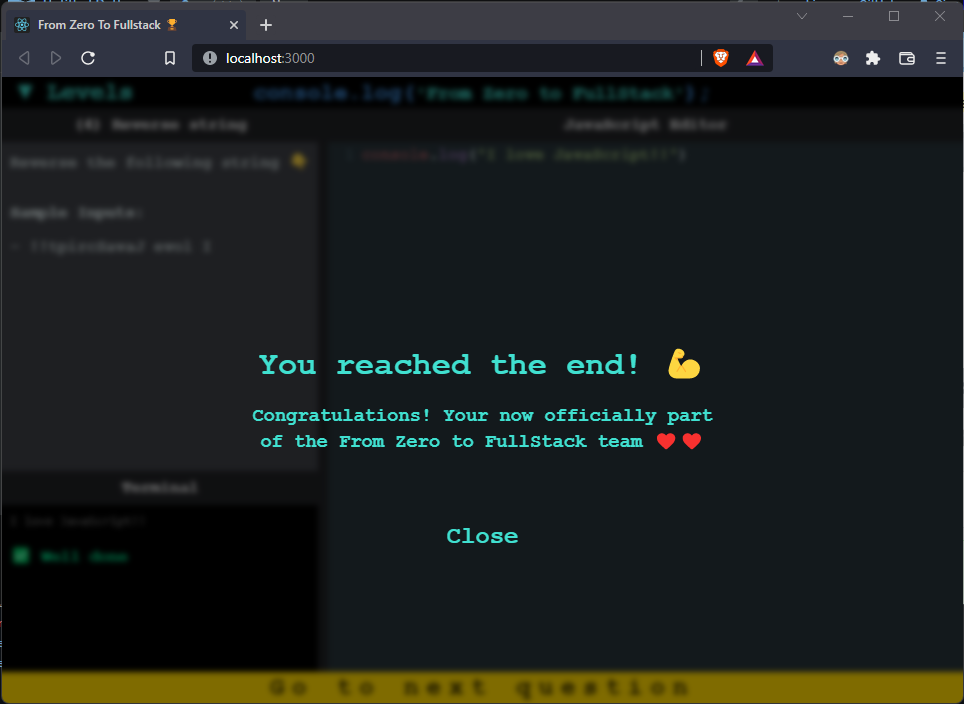
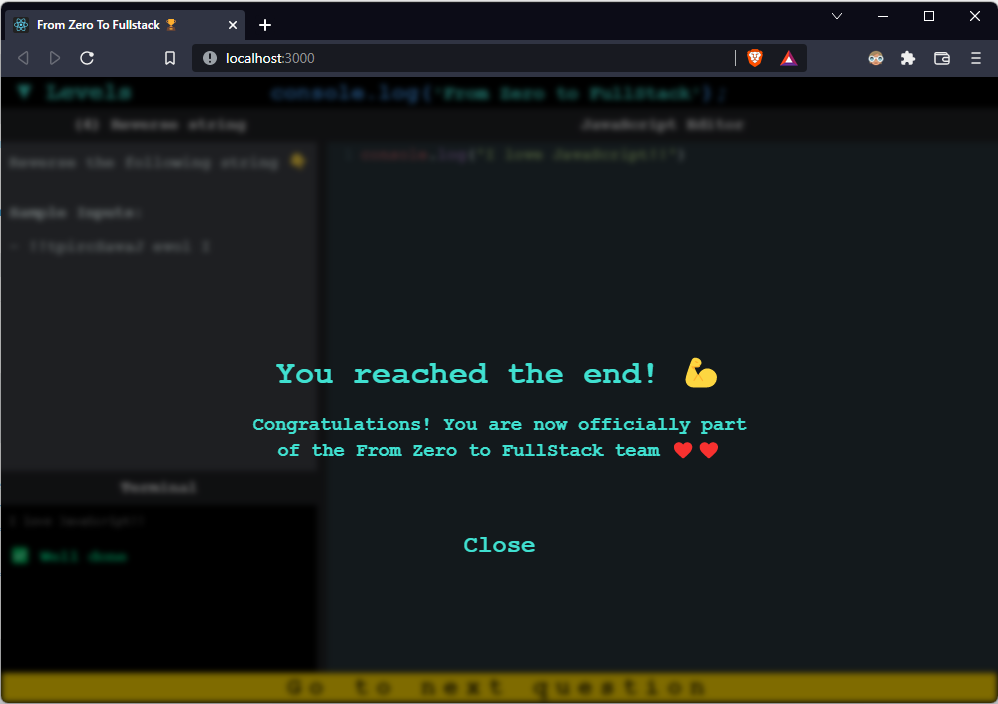
Fix english spelling

diff --git a/src/components/App.js b/src/components/App.js
@@ -199,7 +199,7 @@ function App() {
         <>
             <div className={`end-game ${showEndScreen ? 'show' : 'hide'}`}>
                 <h1>You reached the end! 💪</h1>
-                <h3>Congratulations! Your now officially part of the From Zero to FullStack team ❤❤</h3>
+                <h3>Congratulations! You are now officially part of the From Zero to FullStack team ❤❤</h3>
                 <button
                     type="button"
                     className="button btn-close-screen"
